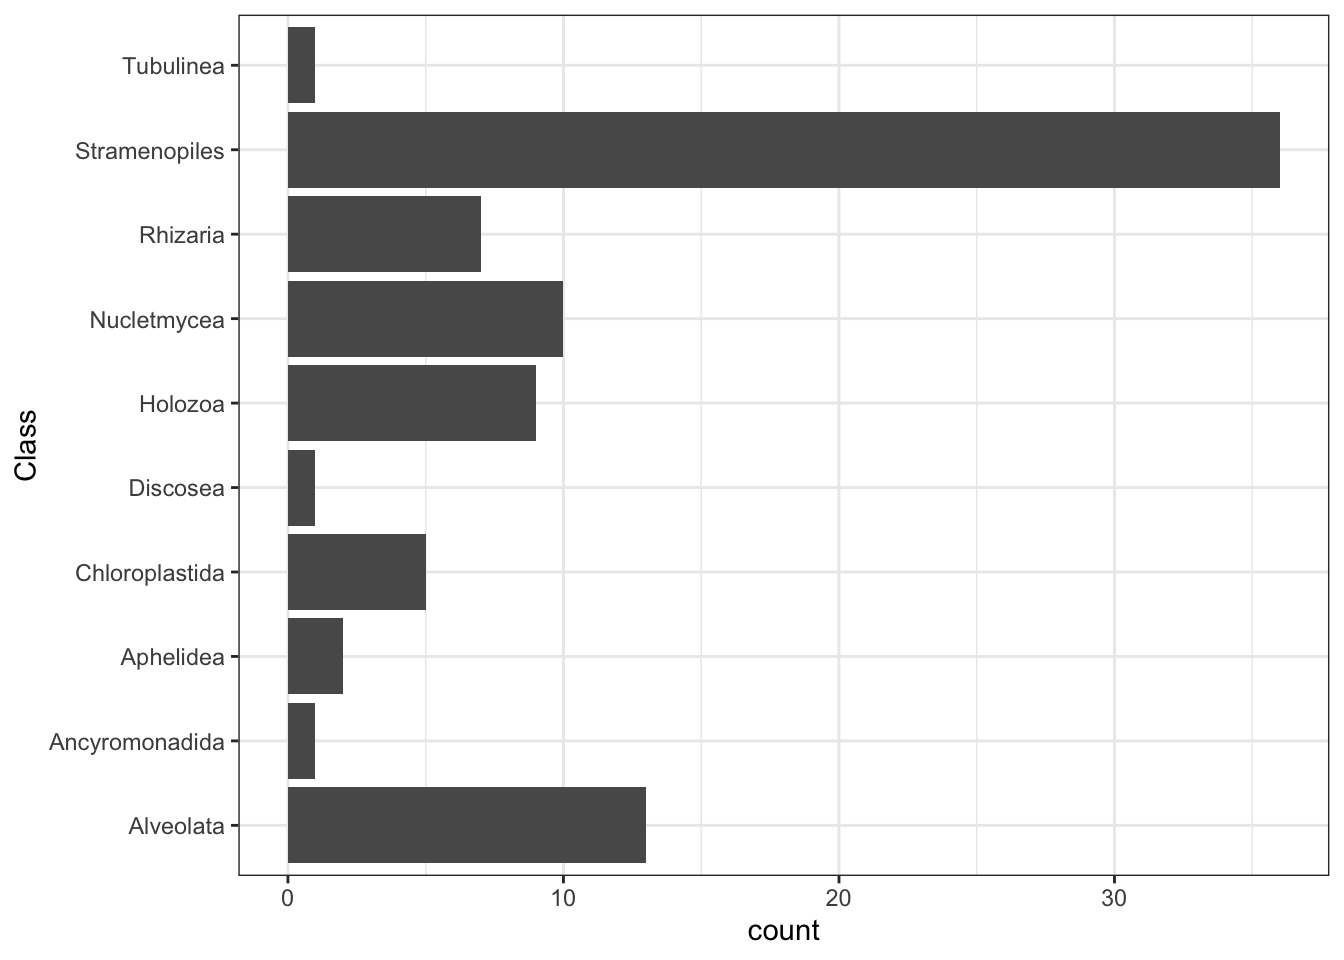
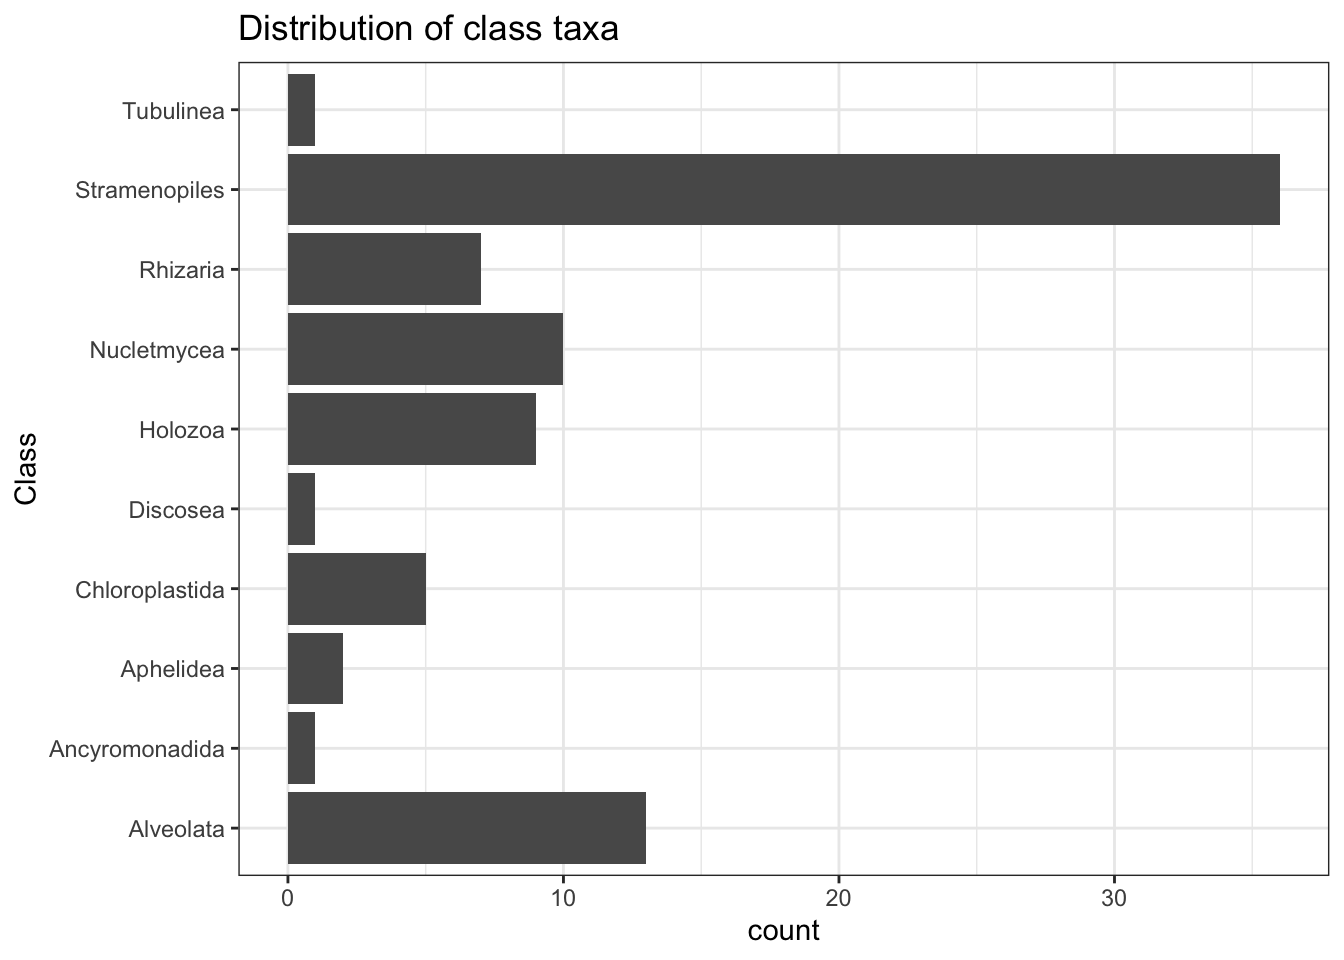
updated eDNA

diff --git a/docs/5_eDNA_singlefile.html b/docs/5_eDNA_singlefile.html
@@ -1,11 +1,10 @@
 <!DOCTYPE html>
 
-<html xmlns="http://www.w3.org/1999/xhtml">
+<html>
 
 <head>
 
 <meta charset="utf-8" />
-<meta http-equiv="Content-Type" content="text/html; charset=utf-8" />
 <meta name="generator" content="pandoc" />
 <meta http-equiv="X-UA-Compatible" content="IE=EDGE" />
 
@@ -237,6 +236,7 @@ $(document).ready(function () {
   border: none;
   display: inline-block;
   border-radius: 4px;
+  background-color: transparent;
 }
 
 .tabset-dropdown > .nav-tabs.nav-tabs-open > li {
@@ -265,6 +265,12 @@ $(document).ready(function () {
 }
 }
 
+@media print {
+.toc-content {
+  /* see https://github.com/w3c/csswg-drafts/issues/4434 */
+  float: right;
+}
+}
 
 .toc-content {
   padding-left: 30px;
@@ -407,9 +413,12 @@ div.tocify {
 
 <div id="introduction" class="section level1">
 <h1>Introduction</h1>
-<p>Illumina MiSeq fastq files were downloaded from the NCBI Sequence Read Archive (SRA). The The SRA stores raw sequencing data and alignment information from high-throughput sequencing platforms. For this particular study, demultiplexed reads from from a MiSeq DNA sequencing run were generated from a scientific study of seston DNA (environmental DNA or “eDNA” represented in suspended particulate matter) sampled from an urban watershed of size 42,9994ha in southwestern Ohio, USA. <a href="#fn1" class="footnoteRef" id="fnref1"><sup>1</sup></a></p>
+<p>For this particular study, demultiplexed reads from from a MiSeq DNA sequencing run were generated from a scientific study of seston DNA (environmental DNA or “eDNA” represented in suspended particulate matter) sampled from an urban watershed of size 42,9994ha in southwestern Ohio, USA. <a href="#fn1" class="footnoteRef" id="fnref1"><sup>1</sup></a>. Illumina MiSeq fastq files were downloaded from the NCBI Sequence Read Archive (SRA). The The SRA stores raw sequencing data and alignment information from high-throughput sequencing platforms.</p>
+<p>We will aim to use a machine learning classifier to generate Operational Taxonomic Units (OTUs) from the amplicons within the raw fastq files. In this particular example, OTUs are clusters of similar sequence variants of the 18S rDNA marker gene sequence. Each of these clusters is intended to represent a taxonomic unit of a eukaryote, that has been resolved to a species or genus. In order to achieve this we use a reference taxonomy database of Eukaryotic 18S rDNA.</p>
 <pre class="r"><code># Load libraries
 library(dada2)
+library(dplyr)
+library(ggplot2)
 packageVersion(&quot;dada2&quot;)</code></pre>
 <pre><code>## [1] &#39;1.14.0&#39;</code></pre>
 </div>
@@ -458,11 +467,11 @@ plotQualityProfile(fnR1)</code></pre>
 <p>The next thing we want to do is “dereplicate” the filtered fastq files. During dereplication, we condense the data by collapsing together all reads that encode the same sequence, which significantly reduces later computation times.</p>
 <pre class="r"><code># Derep forward reads
 derepF1 &lt;- derepFastq(filtF1, verbose=TRUE)</code></pre>
-<pre><code>## Dereplicating sequence entries in Fastq file: /var/folders/pg/1mb4zlkx4xq3fzp3nq_mzrhh0000gn/T//Rtmp2FLQGp/file573646710fa.fastq.gz</code></pre>
+<pre><code>## Dereplicating sequence entries in Fastq file: /var/folders/pg/1mb4zlkx4xq3fzp3nq_mzrhh0000gn/T//RtmpGMrKp0/file13ff517a51b71.fastq.gz</code></pre>
 <pre><code>## Encountered 15108 unique sequences from 28738 total sequences read.</code></pre>
 <pre class="r"><code># Derep reverse reads
 derepR1 &lt;- derepFastq(filtR1, verbose=TRUE)</code></pre>
-<pre><code>## Dereplicating sequence entries in Fastq file: /var/folders/pg/1mb4zlkx4xq3fzp3nq_mzrhh0000gn/T//Rtmp2FLQGp/file5732a8bc095.fastq.gz</code></pre>
+<pre><code>## Dereplicating sequence entries in Fastq file: /var/folders/pg/1mb4zlkx4xq3fzp3nq_mzrhh0000gn/T//RtmpGMrKp0/file13ff558aca3d7.fastq.gz</code></pre>
 <pre><code>## Encountered 17850 unique sequences from 28738 total sequences read.</code></pre>
 </div>
 <div id="learn-the-error-rates" class="section level1">
@@ -525,12 +534,10 @@ dim(seqtab)</code></pre>
 <pre class="r"><code># Inspect distribution of sequence lengths
 table(nchar(getSequences(seqtab)))</code></pre>
 <pre><code>## 
-## 311 329 339 340 346 350 352 353 356 357 362 363 365 366 367 368 369 370 
-##   1   1   2   2   1   1   1   1   1   1   1   5   3   3   1   4   6   9 
-## 371 372 373 374 375 376 377 378 379 380 381 382 383 384 385 386 387 388 
-##   4   1   5  12   5   1   5   5  31  14  15  27  11   8  10   1   2   1 
-## 389 391 392 395 397 399 410 429 
-##   4   1   1   1   1   1   1   1</code></pre>
+## 311 329 339 340 346 350 352 353 356 357 362 363 365 366 367 368 369 370 371 372 373 374 375 376 377 378 379 380 381 382 383 384 385 386 387 388 389 391 392 395 397 399 410 
+##   1   1   2   2   1   1   1   1   1   1   1   5   3   3   1   4   6   9   4   1   5  12   5   1   5   5  31  14  15  27  11   8  10   1   2   1   4   1   1   1   1   1   1 
+## 429 
+##   1</code></pre>
 <p>The table contains 213 ASVs from processing the two initial fastq amplicon files.</p>
 </div>
 <div id="remove-chimeras" class="section level1">
@@ -574,20 +581,13 @@ taxa_df &lt;- unname(taxa) %&gt;% as.data.frame()
 names(taxa_df) &lt;- c(&#39;Kingdom&#39;,&#39;Phylum&#39;,&#39;Class&#39;,&#39;Order&#39;,&#39;Family&#39;,&#39;Genus&#39;,&#39;Species&#39;)
 # First few rows of results
 head(taxa_df)</code></pre>
-<pre><code>##     Kingdom         Phylum          Class       Order          Family
-## 1 Eukaryota Archaeplastida Chloroplastida Chlorophyta Chlorodendrales
-## 2 Eukaryota            SAR  Stramenopiles  Ochrophyta    Mediophyceae
-## 3 Eukaryota            SAR  Stramenopiles  Ochrophyta    Mediophyceae
-## 4 Eukaryota            SAR  Stramenopiles  Ochrophyta    Mediophyceae
-## 5 Eukaryota            SAR  Stramenopiles  Ochrophyta    Mediophyceae
-## 6 Eukaryota            SAR  Stramenopiles  Ochrophyta   Chrysophyceae
-##           Genus                         Species              NA
-## 1   Tetraselmis                            &lt;NA&gt;            &lt;NA&gt;
-## 2    Cyclotella                            &lt;NA&gt;            &lt;NA&gt;
-## 3 Thalassiosira                            &lt;NA&gt;            &lt;NA&gt;
-## 4    Cyclotella                            &lt;NA&gt;            &lt;NA&gt;
-## 5    Cyclotella                            &lt;NA&gt;            &lt;NA&gt;
-## 6    uncultured uncultured_freshwater_eukaryote AB622299.1.1685</code></pre>
+<pre><code>##     Kingdom         Phylum          Class       Order          Family         Genus                         Species              NA
+## 1 Eukaryota Archaeplastida Chloroplastida Chlorophyta Chlorodendrales   Tetraselmis                            &lt;NA&gt;            &lt;NA&gt;
+## 2 Eukaryota            SAR  Stramenopiles  Ochrophyta    Mediophyceae    Cyclotella                            &lt;NA&gt;            &lt;NA&gt;
+## 3 Eukaryota            SAR  Stramenopiles  Ochrophyta    Mediophyceae Thalassiosira                            &lt;NA&gt;            &lt;NA&gt;
+## 4 Eukaryota            SAR  Stramenopiles  Ochrophyta    Mediophyceae    Cyclotella                            &lt;NA&gt;            &lt;NA&gt;
+## 5 Eukaryota            SAR  Stramenopiles  Ochrophyta    Mediophyceae    Cyclotella                            &lt;NA&gt;            &lt;NA&gt;
+## 6 Eukaryota            SAR  Stramenopiles  Ochrophyta   Chrysophyceae    uncultured uncultured_freshwater_eukaryote AB622299.1.1685</code></pre>
 <pre class="r"><code># Plot</code></pre>
 <p>As the reference database was for <em>Eurkarytes</em> all of our assign results are eukaryota. We can see that a number of Phyla have resolved to the SAR supergorup; this is a clade of eukaryotes that includes the classes stramenopiles, alveolates and Rhizaria (hence SAR). Most taxa assignments only resolve ultimately to family or genus.</p>
 <p>We can plot a chart to show the distribution of taxa at the <em>Class</em> order. Stramenopiles are clearly the must prevelant class that was resolved. This class are algae, ranging from multicellular kelp to unicellular diatoms, which are a primary component of plankton.</p>
@@ -596,8 +596,13 @@ head(taxa_df)</code></pre>
   ggplot(aes(Class)) +
     geom_bar() +
     coord_flip() +
-    theme_bw()</code></pre>
+    theme_bw() +
+    ggtitle(&quot;Distribution of class taxa&quot;)</code></pre>
 <p><img src="5_eDNA_singlefile_files/figure-html/plot_taxa-1.png" width="672" /></p>
+</div>
+<div id="discussion" class="section level1">
+<h1>Discussion</h1>
+<p>We have seen that it is possible to take raw amplicon data that has been sequenced using environmental DNA, and identify which species are present in the underlying field samples. Environmental DNA sequencing and bioinformatic techniques are a highly productive species surveying tool, especially in environments where the taget taxa are not easily identifiable in the field or considerable taxanomic expertise is required by the scientist undertaking the survey.</p>
 </div>
 <div id="references" class="section level1">
 <h1>References</h1>
